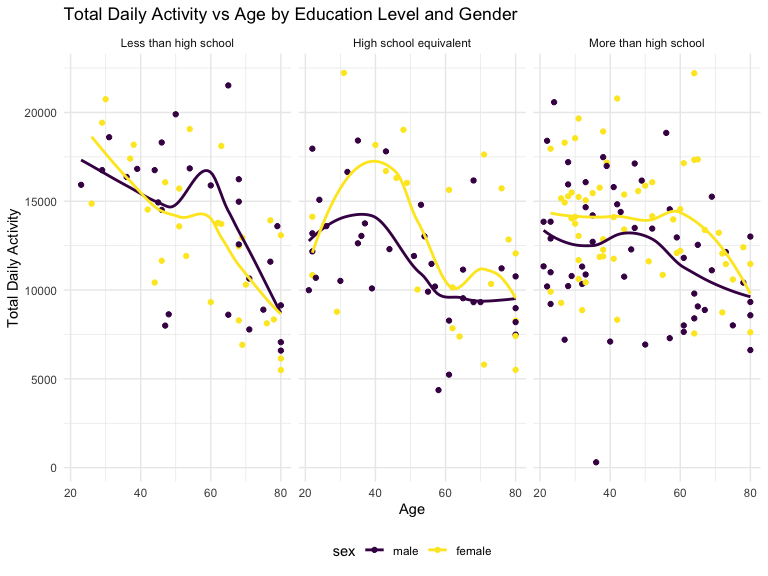
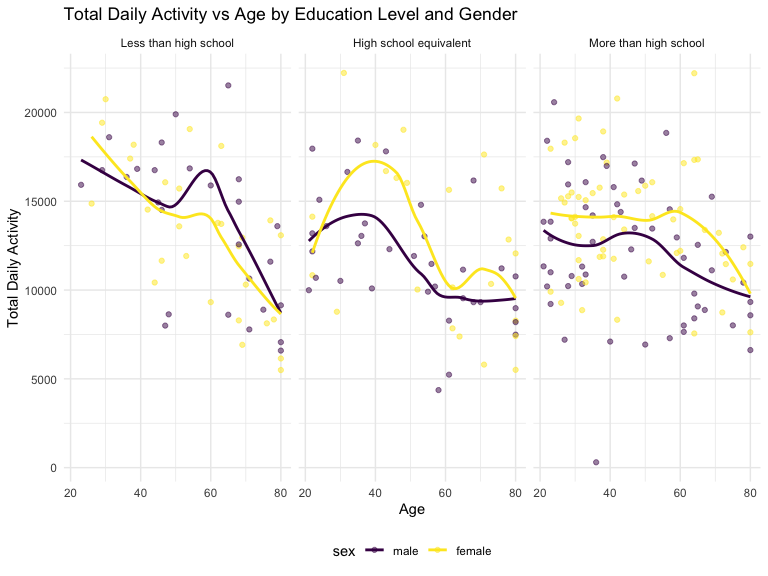
24-hour plot

diff --git a/p8105_hw3_yl5505.md b/p8105_hw3_yl5505.md
@@ -256,21 +256,21 @@ education levels.
 ac_clean |>
   pivot_longer(
     min1:min1440,
-    names_to = "mim_min",
+    names_to = "minute",                
     names_prefix = "min",
-    values_to = "mims_value"
+    values_to = "activity_value"        
   ) |>
   group_by(seqn, sex, age, education) |>
-  summarize(total = sum(mims_value, na.rm = TRUE)) |>
-  ggplot(aes(x = age, y = total, color = sex)) +
-  geom_point(ahpha = 0.5) +
-  geom_smooth (se = FALSE) +
+  summarize(total_activity = sum(activity_value, na.rm = TRUE)) |>
+  ggplot(aes(x = age, y = total_activity, color = sex)) +
+  geom_point(alpha = 0.5) +            
+  geom_smooth(se = FALSE) +   
   facet_wrap(~ education) + 
   labs(
     title = "Total Daily Activity vs Age by Education Level and Gender",
     x = "Age",
     y = "Total Daily Activity"
-  ) 
+  )
 ```
 
     ## `summarise()` has grouped output by 'seqn', 'sex', 'age'. You can override
@@ -278,3 +278,38 @@ ac_clean |>
     ## `geom_smooth()` using method = 'loess' and formula = 'y ~ x'
 
 <img src="p8105_hw3_yl5505_files/figure-gfm/unnamed-chunk-12-1.png" width="90%" />
+-The plot shows that physical activity declines with age regardless of
+education level. -The trend of higher activity levels among those with
+more education may indicate that education contributes to increased
+health awareness. -In general, women (yellow line) show slightly higher
+peaks in activity in the younger age groups compared to men.
+
+## 24-hour activity
+
+``` r
+ac_clean |>
+  pivot_longer(
+    min1:min1440,
+    names_to = "minute",
+    names_prefix = "min",
+    values_to = "activity_value"
+  ) |>
+  mutate(minute = as.numeric(minute)) |>
+  group_by(minute, sex, education) |>
+  summarize(mean_activity = mean(activity_value, na.rm = TRUE), .groups = "drop") |>
+  ggplot(aes(x = minute, y = mean_activity, color = sex)) +
+  geom_line(size = 1, alpha = 0.7) + 
+  facet_wrap(~ education) +        
+  scale_x_continuous(               
+    breaks = seq(0, 1440, by = 240), 
+    labels = c("Midnight", "4 AM", "8 AM", "Noon", "4 PM", "8 PM", "Midnight")
+  ) +
+  labs(
+    title = "24-Hour Activity Time Courses by Education Level and Gender",
+    x = "Minute of the Day",
+    y = "Mean Activity Level",
+    color = "Gender"
+  )
+```
+
+<img src="p8105_hw3_yl5505_files/figure-gfm/unnamed-chunk-13-1.png" width="90%" />
